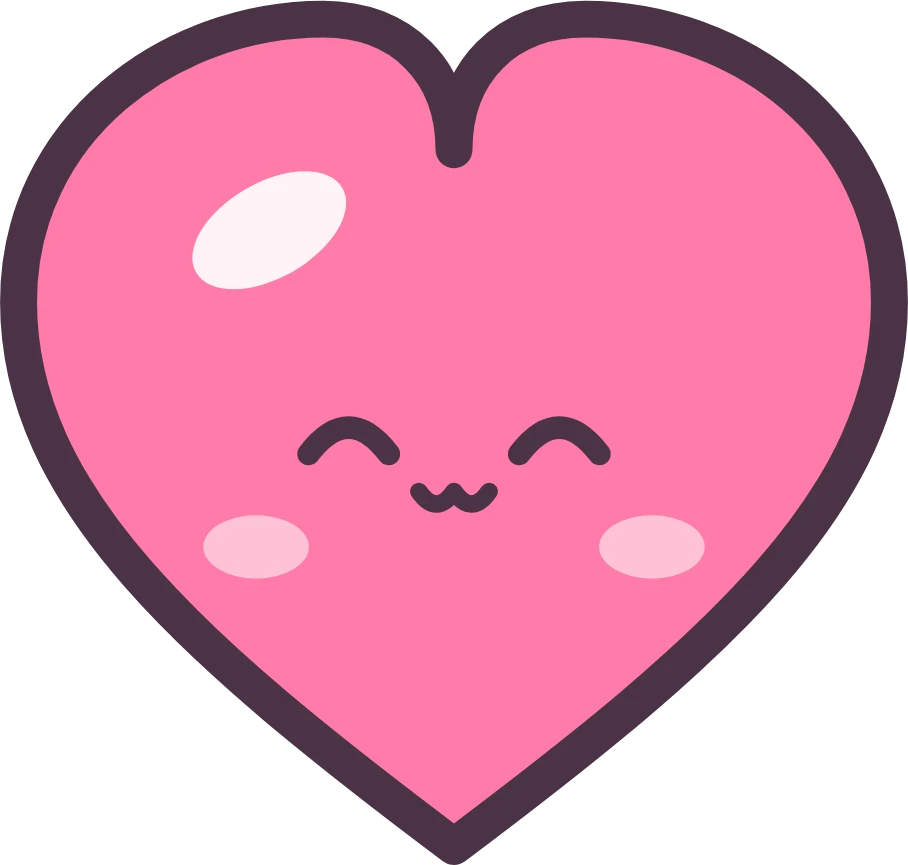
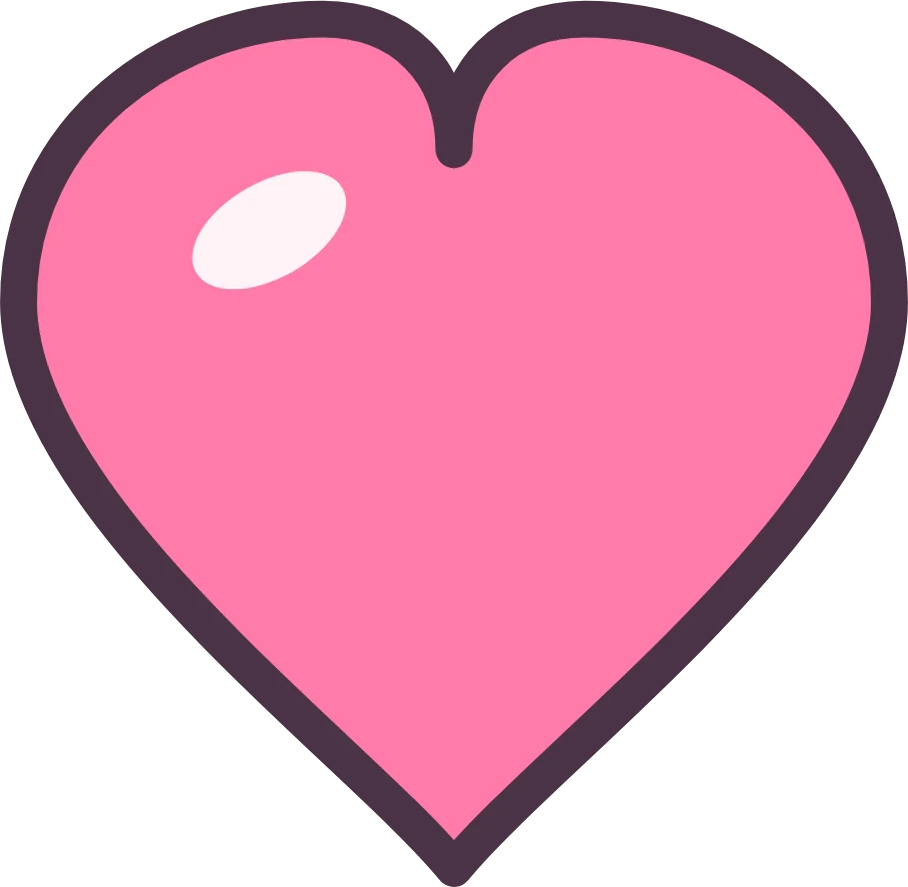
Chibi stickers: no faces, slimmer heart point
Claude-Session: https://claude.ai/code/session_015yrMAQkNsEY5UBbuQDoske

diff --git a/scripts/stickers/chibi.py b/scripts/stickers/chibi.py
@@ -51,8 +51,8 @@ def drop(cx, cy, s, tilt=0):
 
 
 def heart(cx, cy, s):
-    p = [(0, .9), (-.6, .45), (-1, .1), (-1, -.35), (-1, -.75), (-.65, -1), (-.3, -1), (-.12, -1), (0, -.88), (0, -.7),
-         (0, -.88), (.12, -1), (.3, -1), (.65, -1), (1, -.75), (1, -.35), (1, .1), (.6, .45), (0, .9)]
+    p = [(0, .95), (-.22, .68), (-1, .12), (-1, -.35), (-1, -.75), (-.65, -1), (-.3, -1), (-.12, -1), (0, -.88), (0, -.7),
+         (0, -.88), (.12, -1), (.3, -1), (.65, -1), (1, -.75), (1, -.35), (1, .12), (.22, .68), (0, .95)]
     f = lambda i: f"{cx + p[i][0]*s:.1f},{cy + p[i][1]*s:.1f}"
     d = f"M{f(0)}"
     for i in range(1, len(p), 3):
@@ -160,7 +160,6 @@ fl = ("M180,580 C70,580 20,500 30,400 C40,320 90,290 80,210 C130,250 140,300 135
 fl2 = ("M180,560 C115,560 85,505 95,445 C105,395 140,370 140,320 C175,355 180,390 175,420 C200,370 215,320 240,270 "
        "C250,340 290,380 290,450 C290,520 250,560 180,560 Z")
 b = shape(fl, "#ff9a3d") + f'<path d="{fl2}" fill="#ffd84d"/>'
-b += face(190, 470, 70, "dots", blush=True)
 svg("aura", 18, 30, b, pad=12)
 
 # --- sparkle: a cluster of stars ---------------------------------------------
@@ -180,8 +179,6 @@ svg("glint", 16, 16, b, pad=14)
 # --- heart: puffy heart with a happy face ------------------------------------
 b = shape(heart(180, 170, 165), "#ff7aa8")
 b += shine(110, 85, 32, 18)
-b += face(180, 165, 95, "happy", blush=False)
-b += f'<ellipse cx="105" cy="205" rx="20" ry="12" fill="#ffc2d6"/><ellipse cx="255" cy="205" rx="20" ry="12" fill="#ffc2d6"/>'
 svg("heart", 18, 16, b, pad=14)
 
 # --- blush: two cheeks with hatch lines --------------------------------------
@@ -195,7 +192,7 @@ svg("blush", 30, 10, b, pad=6)
 
 # --- tear: a chibi teardrop with a sad face ----------------------------------
 d, tr = drop(0, 0, 105)
-b = f'<g transform="translate(120,330)">' + shape(d, "#8fd3ff") + shine(-45, -40, 22, 34, 25) + face(0, 15, 75, "sad", blush=False) + "</g>"
+b = f'<g transform="translate(120,330)">' + shape(d, "#8fd3ff") + shine(-45, -40, 22, 34, 25) + "</g>"
 svg("tear", 12, 24, b, pad=14)
 
 # --- sweat: the classic big sweat drop ---------------------------------------
@@ -256,7 +253,6 @@ for i in range(5):
         f"M{fx},{fy} C{fx-95},{fy-60} {fx-70},{fy-175} {fx-12},{fy-170} L{fx},{fy-150} L{fx+12},{fy-170} "
         f"C{fx+70},{fy-175} {fx+95},{fy-60} {fx},{fy} Z", "#ffd0e0") + "</g>"
 b += f'<circle cx="{fx}" cy="{fy}" r="62" fill="#ffe27a" stroke="{OUT}" stroke-width="{SW}"/>'
-b += face(fx, fy - 4, 52, "happy", blush=True)
 b += tube(f"M{fx},{fy+70} Q{fx+10},{fy+160} {fx-5},{fy+235}", "#8fdc8f", 18, sw=10)
 b += shape(f"M{fx+4},{fy+170} C{fx+50},{fy+120} {fx+100},{fy+140} {fx+110},{fy+150} C{fx+80},{fy+195} {fx+30},{fy+200} {fx+4},{fy+170} Z", "#a6e8a0", sw=10)
 svg("flower", 18, 22, b, pad=14)
